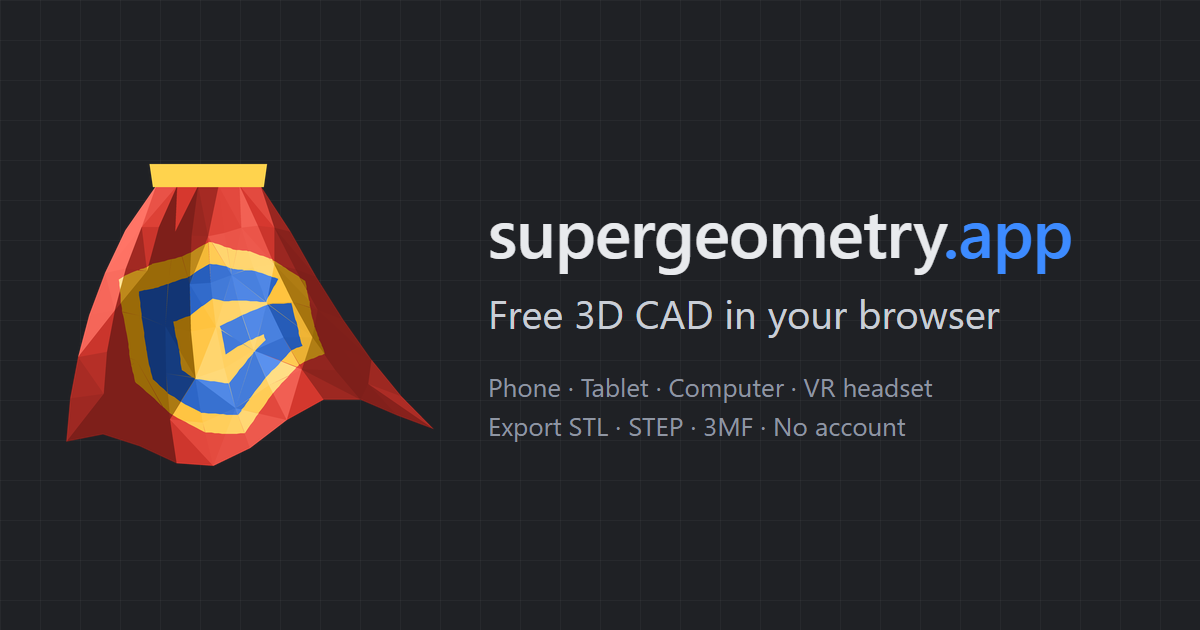
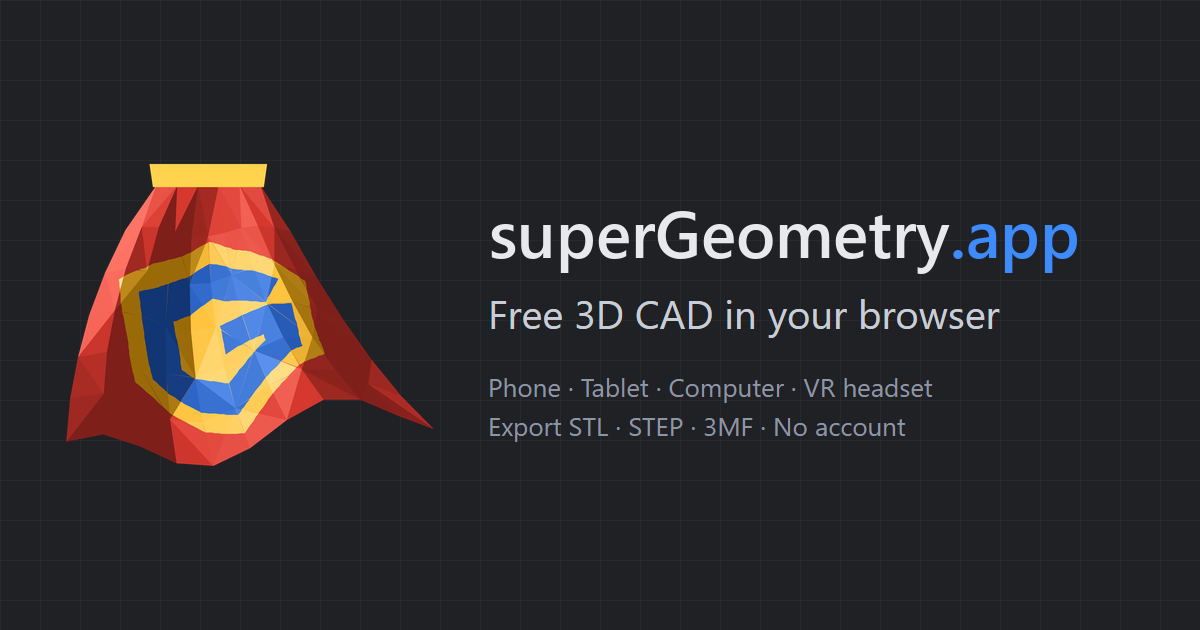
The app's name is written superGeometry.app wherever it is shown: the top bar, the page title and share tags, the install name, About, Help, the welcome, toasts, the screenshot mark, exported files' generator, the share image, README and LICENSE (web addresses, storage keys and the subreddit stay as

Changed region(s): [[0.4008, 0.3317, 0.8942, 0.4524]]

diff --git a/index.html b/index.html
@@ -19,16 +19,16 @@
     <link rel="canonical" href="https://supergeometry.app/" />
     <!-- Link previews (WhatsApp, Reddit, Discord, X, Facebook...). -->
     <meta property="og:type" content="website" />
-    <meta property="og:site_name" content="supergeometry.app" />
+    <meta property="og:site_name" content="superGeometry.app" />
     <meta property="og:url" content="https://supergeometry.app/" />
-    <meta property="og:title" content="supergeometry.app - Free 3D CAD and 3D modeling in your browser" />
+    <meta property="og:title" content="superGeometry.app - Free 3D CAD and 3D modeling in your browser" />
     <meta property="og:description" content="Free 3D CAD app in your browser, for phone, tablet, computer and VR headset. Sketch, extrude, fillet and design parts for 3D printing. Export STL, STEP and 3MF. No account, no download." />
     <meta property="og:image" content="https://supergeometry.app/og-image.png" />
     <meta property="og:image:width" content="1200" />
     <meta property="og:image:height" content="630" />
-    <meta property="og:image:alt" content="supergeometry.app - free 3D CAD in your browser" />
+    <meta property="og:image:alt" content="superGeometry.app - free 3D CAD in your browser" />
     <meta name="twitter:card" content="summary_large_image" />
-    <meta name="twitter:title" content="supergeometry.app - Free 3D CAD and 3D modeling in your browser" />
+    <meta name="twitter:title" content="superGeometry.app - Free 3D CAD and 3D modeling in your browser" />
     <meta name="twitter:description" content="Free 3D CAD app in your browser, for phone, tablet, computer and VR headset. Sketch, extrude, fillet and design parts for 3D printing. Export STL, STEP and 3MF. No account, no download." />
     <meta name="twitter:image" content="https://supergeometry.app/og-image.png" />
     <!-- What it is, for search engines: a free design app that runs in the browser. -->
@@ -36,7 +36,7 @@
       {
         "@context": "https://schema.org",
         "@type": "WebApplication",
-        "name": "supergeometry.app",
+        "name": "superGeometry.app",
         "url": "https://supergeometry.app/",
         "description": "Free 3D CAD app in your browser, for phone, tablet, computer and VR headset. Sketch, extrude, fillet and design parts for 3D printing. Export STL, STEP and 3MF. No account, no download.",
         "applicationCategory": "DesignApplication",
@@ -55,15 +55,15 @@
     <link rel="manifest" href="./manifest.webmanifest" />
     <link rel="icon" href="./icon.svg" type="image/svg+xml" />
     <link rel="apple-touch-icon" href="./apple-touch-icon.png" />
-    <title>supergeometry.app - Free 3D CAD and 3D modeling in your browser</title>
+    <title>superGeometry.app - Free 3D CAD and 3D modeling in your browser</title>
   </head>
   <body>
     <!-- What the app is, as text (the app itself is a 3D canvas and buttons):
          for search engines and screen readers. Not shown on screen. -->
-    <main class="sr-only" aria-label="About supergeometry.app">
-      <h1>supergeometry.app - free 3D CAD in your browser</h1>
+    <main class="sr-only" aria-label="About superGeometry.app">
+      <h1>superGeometry.app - free 3D CAD in your browser</h1>
       <p>
-        supergeometry.app is a free 3D design (CAD) and 3D modeling app that runs in your web browser, on a computer
+        superGeometry.app is a free 3D design (CAD) and 3D modeling app that runs in your web browser, on a computer
         (Windows, Mac, Linux, Chromebook), an iPad or Android tablet, a phone, or a VR headset like the Meta Quest 3.
         No account, no download, no subscription. Your work stays on your device.
       </p>
@@ -88,7 +88,7 @@
     <div id="pins"></div>
 
     <header id="topbar">
-      <div class="brand"><img class="brand-icon" src="icon.svg" alt="supergeometry.app" width="30" height="30" /><span class="brand-name">supergeometry<span class="brand-tld">.app</span></span></div>
+      <div class="brand"><img class="brand-icon" src="icon.svg" alt="superGeometry.app" width="30" height="30" /><span class="brand-name">superGeometry<span class="brand-tld">.app</span></span></div>
       <span id="project-name" class="project-name" role="textbox" tabindex="0" spellcheck="false" title="Project name - click to rename" aria-label="Project name"></span>
       <div class="menu-wrap">
         <button id="file-btn" class="text-btn">File</button>
@@ -119,7 +119,7 @@
           <button id="m-tutorial">Tutorial <span class="menu-soon">soon</span></button>
           <button id="m-update">Update</button>
           <button id="m-feedback">Feedback <span class="menu-soon">Bug / Idea</span></button>
-          <button id="m-about">About supergeometry.app</button>
+          <button id="m-about">About superGeometry.app</button>
           <button id="m-donate">Support <span class="menu-soon" id="m-donate-arrow">▸</span></button>
           <div id="m-donate-list" class="menu-sub" hidden>
             <button id="m-support-makerworld">MakerWorld - Boost <span class="menu-soon">↗</span></button>

diff --git a/src/ui/help.ts b/src/ui/help.ts
@@ -91,7 +91,7 @@ const SECTIONS: { title: string; intro?: string; items: Entry[] }[] = [
       { icon: "numpad", name: "Numpad", text: "Tap to switch the on-screen numpad on or off: value boxes then open it instead of the keyboard. Typing replaces the value; ↵ applies it. ƒx adds + × / and your variables (tap one to type its name), and + New makes a variable from the value." },
       { icon: "display", name: "Display", text: "Shaded, wireframe or X-ray; edges and hidden edges." },
       { icon: "vr", name: "VR", text: "With a headset (its own browser, or a PC with one connected) the top bar shows Enter VR: your model stands in your room at real size, through the headset's cameras where it has them. Point the right hand at a table or the floor and pull the trigger to put it down there. Grip picks it up to move and turn it; both grips pulled apart or together size it (it stops at real size on the way). The scale over your left hand shows how big it is: 1:1 is real size, 2:1 twice as big, 1:2 half. A: real size or hand size. B: back in front of you. Y: X-Ray. Right stick: turn it, or size it. Left stick: raise or lower it. Hold X for the wheel (Real size, Hand size, Bring here, X-Ray, Edges, Exit): tilt the stick to a button and let go. On a phone or tablet the button says Enter AR (Chrome on Android): point it at the floor or a table and tap to put the model there, tap again to move it, pinch to size it and twist to turn it; Exit AR at the top. It's a viewer: edit on the screen." },
-      { icon: "camera", name: "Screenshot", text: "Snapshot on the Settings wheel: save a picture of the view, marked faintly at the bottom right with the project's name, the isolated bodies (when isolating) and supergeometry.app." },
+      { icon: "camera", name: "Screenshot", text: "Snapshot on the Settings wheel: save a picture of the view, marked faintly at the bottom right with the project's name, the isolated bodies (when isolating) and superGeometry.app." },
       { icon: "history", name: "History", text: "History in the top bar: every step in order. Tap one to change it, hover to see what it works on, the eye switches it off, the bin deletes it (two taps, as in Items and the projects: the first turns it red). Select several (Ctrl/Shift+click) to group them: fold, rename, switch all off or on, ungroup. Ticked steps in a group: Ungroup (beside Group) takes just them out, in their own place in the timeline (a group they were in the middle of splits around them); a group's tick box ticks all its steps." },
     ],
   },
@@ -113,7 +113,7 @@ export class HelpPanel {
   constructor() {
     this.el.hidden = true;
     const head = el("div", "help-head");
-    head.append(el("h2", "", "How supergeometry.app works"));
+    head.append(el("h2", "", "How superGeometry.app works"));
     const close = el("button", "icon-btn help-close");
     close.innerHTML = icons.close;
     close.title = "Close help";

diff --git a/src/app.ts b/src/app.ts
@@ -165,7 +165,7 @@ export class App implements AppContext {
     checkVR();
     (navigator as Navigator & { xr?: EventTarget }).xr?.addEventListener("devicechange", checkVR);
     vrBtn.addEventListener("click", async () => {
-      if (!(await vrSupported(handheld))) return this.ui.toast(handheld ? "This browser can't show AR - try Chrome" : "This browser can't open VR here - open supergeometry.app in the headset's own browser (not an installed app window)");
+      if (!(await vrSupported(handheld))) return this.ui.toast(handheld ? "This browser can't show AR - try Chrome" : "This browser can't open VR here - open superGeometry.app in the headset's own browser (not an installed app window)");
       vr.enter().catch((e: unknown) => this.ui.toast(`${handheld ? "AR" : "VR"} didn't start: ${e instanceof Error ? e.message : e}`));
     });
     this.pinLayer = new PinLayer(this.view);
@@ -1352,7 +1352,7 @@ export class App implements AppContext {
       if (root.requestFullscreen) void root.requestFullscreen().catch(() => this.ui.toast("This browser won't go fullscreen here"));
       else if (root.webkitRequestFullscreen) root.webkitRequestFullscreen();
       // iPhone Safari has no fullscreen for pages: the Home Screen app is.
-      else this.ui.toast("Tip: Share → Add to Home Screen opens supergeometry.app full screen");
+      else this.ui.toast("Tip: Share → Add to Home Screen opens superGeometry.app full screen");
     };
     moreItem("m-fullscreen", () => {
       if (isFull()) return void (document.exitFullscreen?.() ?? doc.webkitExitFullscreen?.());
@@ -1477,7 +1477,7 @@ export class App implements AppContext {
     const show = () => {
       if (document.activeElement !== name) name.textContent = this.store.doc.name;
       // A new, unnamed project keeps the page's own title (what search results show).
-      document.title = this.store.doc.name === "Untitled" ? PAGE_TITLE : `${this.store.doc.name} – supergeometry.app`;
+      document.title = this.store.doc.name === "Untitled" ? PAGE_TITLE : `${this.store.doc.name} – superGeometry.app`;
     };
     const rename = () => {
       const v = typed();

diff --git a/src/view/viewport.ts b/src/view/viewport.ts
@@ -1600,7 +1600,7 @@ export class Viewport {
   /**
    * The view as a PNG, with see-through marks at the bottom right: the
    * project's name, the isolated bodies' names (when isolating), and the
-   * supergeometry.app logo and name.
+   * superGeometry.app logo and name.
    */
   async screenshot(label?: { project: string; isolated?: string[] }): Promise<Blob | null> {
     const logo = await watermarkLogo();
@@ -1620,15 +1620,15 @@ export class Viewport {
     const right = out.width - pad;
     g.globalAlpha = 0.45;
     g.textBaseline = "middle";
-    // Bottom line: logo, "supergeometry" and ".app", ending at the right edge.
+    // Bottom line: logo, "superGeometry" and ".app", ending at the right edge.
     let y = out.height - pad - icon / 2;
     g.font = font(750, 20);
     const tld = g.measureText(".app").width;
-    const name = g.measureText("supergeometry").width;
+    const name = g.measureText("superGeometry").width;
     g.fillStyle = "#3d8bff";
     g.fillText(".app", right - tld, y);
     g.fillStyle = "#cfd6e4";
-    g.fillText("supergeometry", right - tld - name, y);
+    g.fillText("superGeometry", right - tld - name, y);
     if (logo) g.drawImage(logo, right - tld - name - 8 * px - icon, y - icon / 2, icon, icon);
     // Above it, right-aligned: the isolated bodies, then the project's name.
     g.textAlign = "right";

diff --git a/src/ui/install.ts b/src/ui/install.ts
@@ -71,7 +71,7 @@ export class Install {
 
   /** The notice: Install / Not now (or, on iOS, how to do it). */
   offer(fromMenu = false): void {
-    if (isInstalled()) return void (fromMenu && this.toast("supergeometry.app is already installed on this device"));
+    if (isInstalled()) return void (fromMenu && this.toast("superGeometry.app is already installed on this device"));
     this.banner.innerHTML = "";
     const ios = isIOS() && !this.deferred;
     if (!ios && !this.deferred) {
@@ -83,8 +83,8 @@ export class Install {
       "span",
       "",
       ios
-        ? "Add supergeometry.app to your Home Screen: tap Share (the square with the arrow), then “Add to Home Screen”."
-        : "Install supergeometry.app on this device? It opens like an app, full screen.",
+        ? "Add superGeometry.app to your Home Screen: tap Share (the square with the arrow), then “Add to Home Screen”."
+        : "Install superGeometry.app on this device? It opens like an app, full screen.",
     );
     const yes = el("button", "text-btn primary", ios ? "Got it" : "Install");
     yes.addEventListener("click", () => void this.accept(ios));

diff --git a/src/doc/store.ts b/src/doc/store.ts
@@ -406,7 +406,7 @@ export function parseProject(text: string): ProjectDoc {
 export function migrate(raw: unknown): ProjectDoc {
   const doc = raw as ProjectDoc & { version: number };
   // "tessel" is the format name of files saved before the rename.
-  if (!doc || (doc.format !== "super" && (doc.format as string) !== "tessel") || !Array.isArray(doc.features)) throw new Error("Not a supergeometry.app project file");
+  if (!doc || (doc.format !== "super" && (doc.format as string) !== "tessel") || !Array.isArray(doc.features)) throw new Error("Not a superGeometry.app project file");
   if (doc.version === 2) return { ...emptyDoc(), ...doc, format: "super" };
   // A newer app saved it: read as an old one, it would come out mangled.
   if (doc.version > 2) throw new Error("This project was saved by a newer version of the app - reload the page to update");

diff --git a/src/ui/library.ts b/src/ui/library.ts
@@ -99,7 +99,7 @@ export function showLibrary(entries: LibraryEntry[], currentId: string | null, a
   const box = el("div", "dialog library");
   if (opts.welcome) box.classList.add("welcome");
   const head = el("div", "library-head");
-  head.append(el("div", "panel-title", opts.welcome ? "Welcome to supergeometry.app" : "Projects"));
+  head.append(el("div", "panel-title", opts.welcome ? "Welcome to superGeometry.app" : "Projects"));
   // No projects yet: New project is the way in.
   const newBtn = el("button", entries.length ? "text-btn" : "text-btn primary", "New project");
   newBtn.type = "button";

diff --git a/src/io/threemf.ts b/src/io/threemf.ts
@@ -19,7 +19,7 @@ function modelXml(bodies: MeshBody[], title: string): string {
   out.push('<?xml version="1.0" encoding="UTF-8"?>');
   out.push('<model unit="millimeter" xml:lang="en-US" xmlns="http://schemas.microsoft.com/3dmanufacturing/core/2015/02">');
   out.push(`<metadata name="Title">${esc(title)}</metadata>`);
-  out.push('<metadata name="Application">supergeometry.app</metadata>');
+  out.push('<metadata name="Application">superGeometry.app</metadata>');
   out.push("<resources>");
   if (colors.length) {
     out.push('<basematerials id="1">');

diff --git a/src/ui/about.ts b/src/ui/about.ts
@@ -110,7 +110,7 @@ export function showAbout(): void {
   const back = el("div", "dialog-back");
   const box = el("div", "dialog about");
   const head = el("div", "library-head");
-  head.append(el("div", "panel-title", "About supergeometry.app"));
+  head.append(el("div", "panel-title", "About superGeometry.app"));
   const closeBtn = el("button", "icon-btn library-close");
   closeBtn.type = "button";
   closeBtn.title = "Close";

diff --git a/src/io/formats.ts b/src/io/formats.ts
@@ -194,7 +194,7 @@ export function glb(bodies: GlbBody[], title: string): Uint8Array {
     nodes.push({ name: b.name, mesh: i });
   });
   const json = {
-    asset: { version: "2.0", generator: "supergeometry.app" },
+    asset: { version: "2.0", generator: "superGeometry.app" },
     scene: 0,
     scenes: [{ name: title, nodes: [0] }],
     nodes,

diff --git a/src/ui/feedback.ts b/src/ui/feedback.ts
@@ -35,7 +35,7 @@ export function deviceLine(): string {
 }
 
 export function infoLine(): string {
-  return `supergeometry.app ${__APP_VERSION__} · ${deviceLine()}`;
+  return `superGeometry.app ${__APP_VERSION__} · ${deviceLine()}`;
 }
 
 /** Reddit's "new text post" page for the subreddit, filled in. */

diff --git a/scripts/live.ts b/scripts/live.ts
@@ -1,4 +1,4 @@
-// Is the push live? Compares the commit supergeometry.app was built from
+// Is the push live? Compares the commit superGeometry.app was built from
 // (its /version.json) with main here.
 //
 //   npx tsx scripts/live.ts           once
